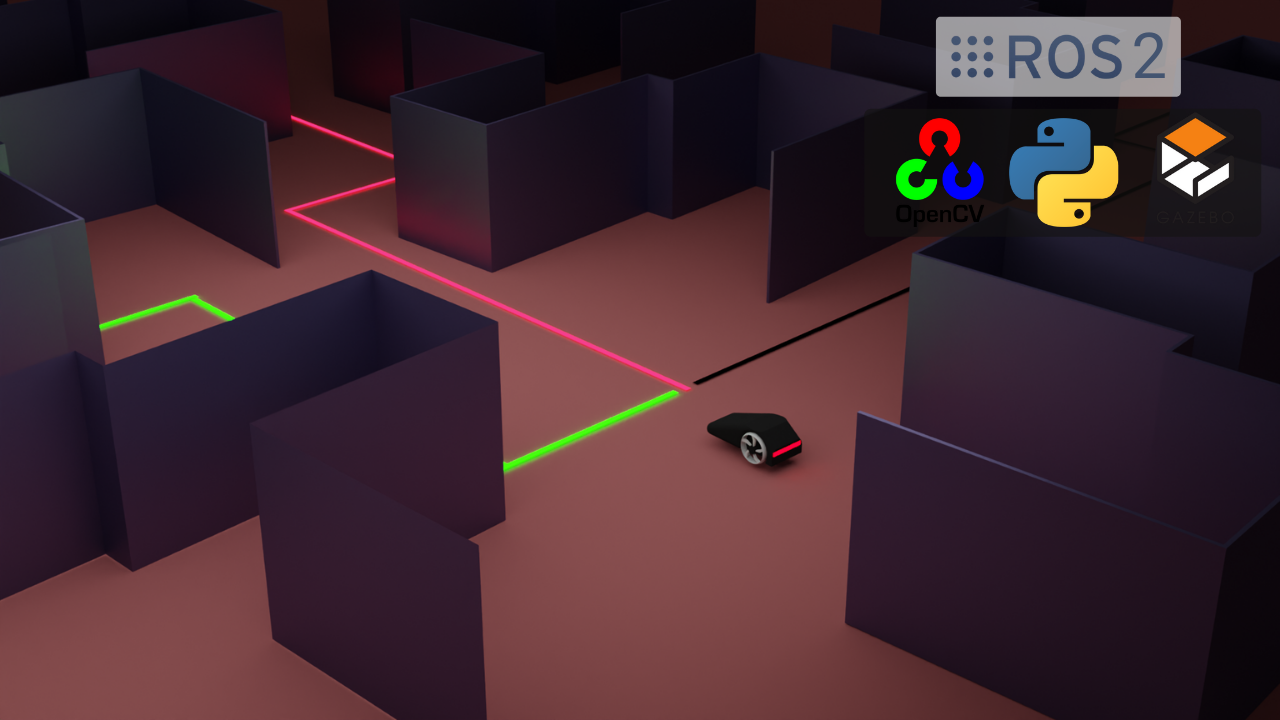
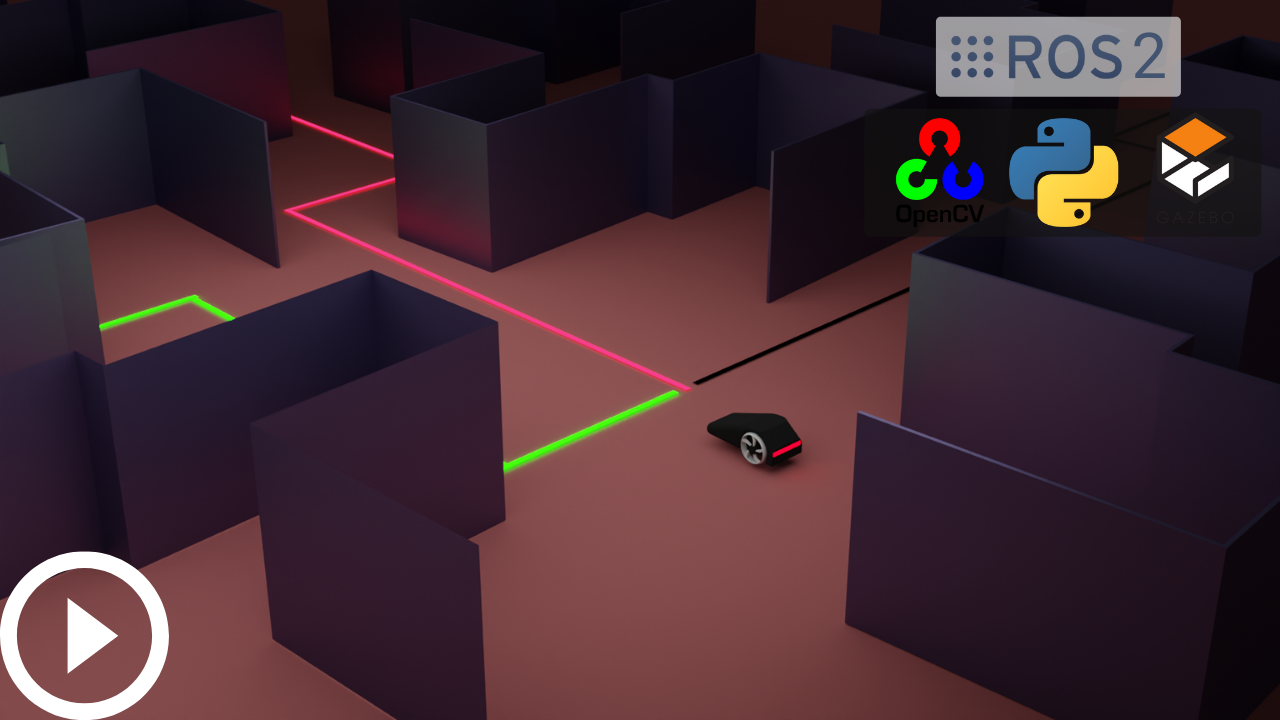
Maze Solving Gifs added

Changed region(s): [[0.0, 0.7639, 0.1562, 1.0]]

diff --git a/README.md b/README.md
@@ -1,7 +1,6 @@
 # Maze Solving using Computer Vision In ROS2
 
-[![alt text](https://github.com/HaiderAbasi/ROS2-Path-Planning-and-Maze-Solving/blob/master/images/cover.png)]
-
+[![alt text](https://github.com/HaiderAbasi/ROS2-Path-Planning-and-Maze-Solving/blob/master/images/cover.png)](https://youtu.be/Ejl4ZLKo3Cc "Click to Watch Intro Video on Youtube")
 ## Repository contents
 <details open="open">
   <summary>Table of Contents</summary>
@@ -69,6 +68,12 @@ source ~/ROS2-Path-Planning-and-Maze-Solving/path_planning_ws/install/setup.bash
   - ![alt text](https://github.com/HaiderAbasi/ROS2-Path-Planning-and-Maze-Solving/blob/master/images/nodes.gif)<br/><br/>
 * **Custom World Setup**<br/><br/>
   - ![alt text](https://github.com/HaiderAbasi/ROS2-Path-Planning-and-Maze-Solving/blob/master/images/world.gif)<br/><br/>
+* **Mapping**<br/><br/>
+  - ![alt text](https://github.com/HaiderAbasi/ROS2-Path-Planning-and-Maze-Solving/blob/master/images/mapping.gif)<br/><br/>
+* **Path Planning**<br/><br/>
+  - ![alt text](https://github.com/HaiderAbasi/ROS2-Path-Planning-and-Maze-Solving/blob/master/images/path_planning.gif)<br/><br/>
+* **Maze Solving**<br/><br/>
+  - ![alt text](https://github.com/HaiderAbasi/ROS2-Path-Planning-and-Maze-Solving/blob/master/images/maze_solving.gif)<br/><br/>
 
 
 ## 🧊 Pre-Course Requirments:
